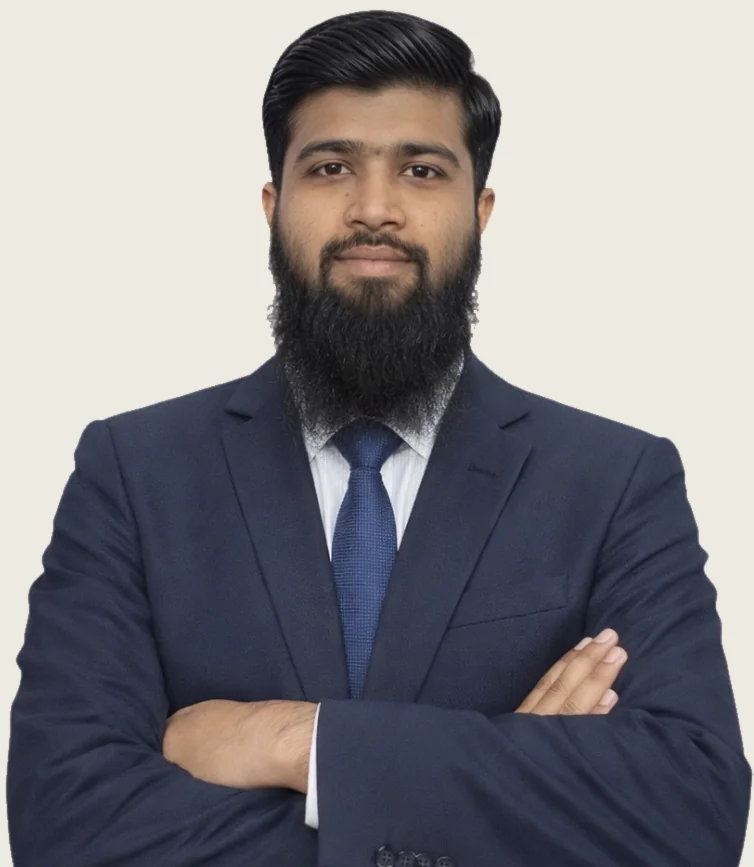
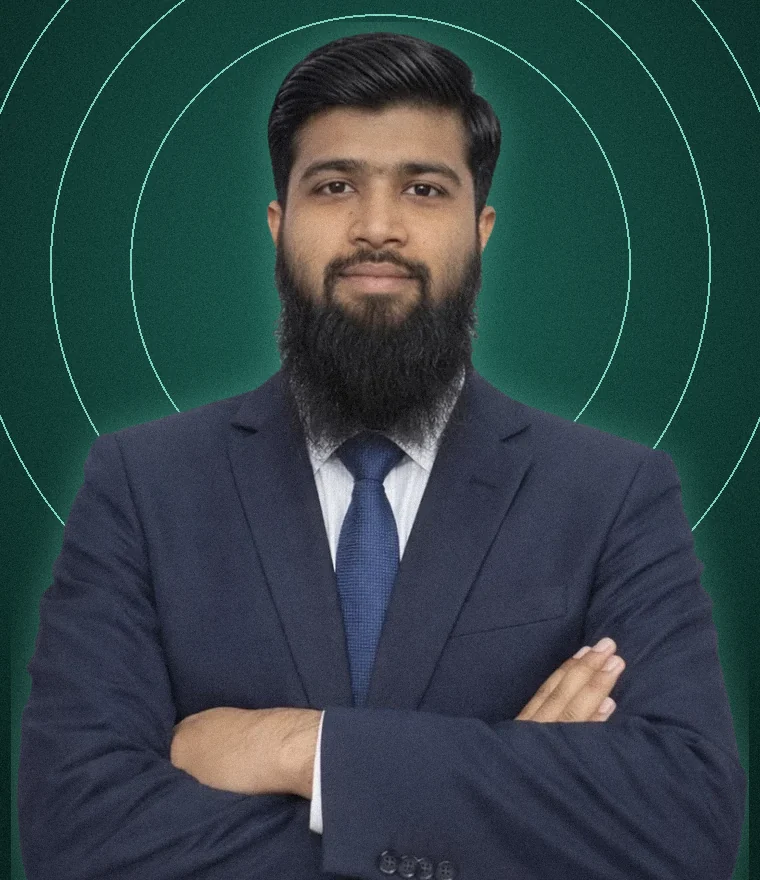
Tighter spacing, centered specialty, toolbox grid, new portrait, colored footer, no dash lines
Claude-Session: https://claude.ai/code/session_01HibqByGxeKNhrDeS48D84j

diff --git a/assets/css/style.css b/assets/css/style.css
@@ -27,16 +27,15 @@ button{font:inherit}
 /* type */
 h1,h2,h3{margin:0;font-weight:600;letter-spacing:-.025em;line-height:1.08}
 .serif{font-family:var(--serif);font-weight:400;font-style:italic;letter-spacing:-.01em}
-.eyebrow{display:inline-flex;align-items:center;gap:10px;font-size:13px;font-weight:600;letter-spacing:.08em;text-transform:uppercase;color:var(--accent)}
-.eyebrow::before{content:"";width:22px;height:1px;background:currentColor}
-.section{padding:120px 0}
+.eyebrow{display:inline-flex;align-items:center;gap:8px;font-size:13px;font-weight:600;letter-spacing:.04em;color:var(--accent);background:var(--accent-soft);padding:6px 14px;border-radius:999px}
+.dark .eyebrow,.contact .eyebrow{background:rgba(127,209,188,.12)}
+.section{padding:96px 0}
 .section.tight{padding-top:24px}
 .section.band{background:#fff;border-top:1px solid var(--line);border-bottom:1px solid var(--line)}
 .sec-head{max-width:760px;margin:0 auto 56px;text-align:center;display:flex;flex-direction:column;align-items:center}
 .sec-head h2{font-size:clamp(36px,5vw,58px);margin:16px 0 0;text-wrap:balance}
 .sec-head p{max-width:560px;color:var(--muted);margin:18px 0 0;font-size:18px}
 .dark .sec-head p{color:var(--dark-muted)}
-.sec-head .eyebrow::after{content:"";width:22px;height:1px;background:currentColor}
 .sec-head .filters{justify-content:center;margin-top:30px}
 .lead{font-size:clamp(18px,1.6vw,20px);color:var(--muted)}
 
@@ -109,7 +108,7 @@ h1,h2,h3{margin:0;font-weight:600;letter-spacing:-.025em;line-height:1.08}
 .marquee-inner{display:flex;gap:56px;padding:26px 0;width:max-content;animation:scroll 48s linear infinite}
 .marquee:hover .marquee-inner{animation-play-state:paused}
 .marquee span{font-size:22px;font-weight:600;letter-spacing:-.02em;color:#9AA0A6;white-space:nowrap;display:flex;align-items:center;gap:56px}
-.marquee span::after{content:"✦";font-size:12px;color:var(--line)}
+.marquee span::after{content:"";width:6px;height:6px;border-radius:50%;background:var(--line)}
 @keyframes scroll{to{transform:translateX(-50%)}}
 .marquee-label{text-align:center;font-size:13px;color:var(--muted);letter-spacing:.06em;text-transform:uppercase;padding-top:22px;background:#fff;margin:0}
 
@@ -424,3 +423,50 @@ ol.process{list-style:none;margin:0;padding:0}
 @media (max-width:960px){.arch{max-width:400px}.fc-1{left:0}.fc-2{right:0}.hero{padding-bottom:56px}}
 @media (max-width:640px){.videos{grid-template-columns:1fr 1fr;gap:12px}.video .cap{padding:40px 12px 12px}.video .cap b{font-size:14px}.video .cap span{font-size:12px}.video .play{width:54px;height:54px;margin:-27px 0 0 -27px}.rcard{width:290px}.video-quote{padding:30px 24px}.sec-head p{font-size:16px}}
 @media (prefers-reduced-motion:reduce){.split .w>span{transform:none}.rtrack{animation:none}.progress{display:none}}
+
+/* ===== v3: spacing, specialty, toolbox, footer ===== */
+#services{padding-bottom:88px}
+#process{background:#fff;border-top:1px solid var(--line);border-bottom:1px solid var(--line);padding:88px 0}
+#pricing{background:var(--paper);border:0}
+#reviews{background:var(--paper-2);border-top:1px solid var(--line);border-bottom:1px solid var(--line);padding-bottom:72px}
+#reviews .rating-bar,#reviews .rcard{background:#fff}
+#about{padding:88px 0 80px}
+#faq{padding-bottom:64px}
+#contact{padding:0 0 96px}
+.sec-head{margin-bottom:48px}
+/* specialty */
+.lp-grid{display:grid;grid-template-columns:1.05fr .95fr;gap:56px;align-items:center}
+.lp-list{list-style:none;padding:0;margin:0;display:grid;grid-template-columns:1fr 1fr;gap:16px;border:0}
+.lp-list li{display:flex;flex-direction:column;gap:6px;padding:22px;border:1px solid var(--dark-line);border-radius:16px;background:var(--dark-2);transition:border-color .25s,transform .25s}
+.lp-list li:hover{border-color:#3E4C46;transform:translateY(-3px)}
+.lp-list .n{font-family:var(--serif);font-style:italic;font-size:30px;color:#7FD1BC;line-height:1;margin-bottom:6px}
+.lp-list b{display:block;font-size:17px;color:#fff;line-height:1.3}
+.lp-list span:not(.n){color:var(--dark-muted);font-size:15px;line-height:1.5}
+.platforms{margin-top:22px}
+.stack-shots{aspect-ratio:1/.92}
+/* about photo, new style */
+.about-photo{background:#0E2C27;border:0}
+.about-photo figcaption{background:#0E2C27;color:#B9C9C3;border-top:1px solid rgba(255,255,255,.08)}
+.about-grid{align-items:center}
+.about-photo{position:relative;top:0}
+/* toolbox */
+.toolbox{margin-top:64px}
+.toolbox-title{font-size:15px;font-weight:600;color:var(--muted);text-align:center;margin:0 0 22px}
+.tool-grid{display:grid;grid-template-columns:repeat(5,1fr);gap:14px}
+.tool{background:#fff;border:1px solid var(--line);border-radius:16px;padding:20px 18px;transition:transform .25s,box-shadow .25s}
+.tool:hover{transform:translateY(-4px);box-shadow:var(--shadow)}
+.tool-head{display:flex;align-items:center;gap:10px;margin-bottom:14px}
+.tool-head .ico{width:34px;height:34px;border-radius:10px;background:var(--accent-soft);display:grid;place-items:center}
+.tool-head svg{width:18px;height:18px;stroke:var(--accent)}
+.tool-head b{font-size:15.5px}
+.tool .chips span{background:var(--paper);font-size:13px}
+/* footer */
+.footer{background:#0C2A25;color:#A9BDB6;padding:56px 0 36px}
+.footer .brand{color:#fff}
+.footer .brand small{color:#8FA79F}
+.footer .brand-mark{background:#7FD1BC;color:#0C2A25}
+.footer-top{border-bottom-color:rgba(255,255,255,.1)}
+.footer a:hover{color:#fff}
+@media (max-width:1080px){.tool-grid{grid-template-columns:repeat(3,1fr)}}
+@media (max-width:960px){.lp-grid{grid-template-columns:1fr}.stack-shots{max-width:560px;margin:10px auto 0;width:100%}.about-photo{max-width:420px;margin:0 auto}}
+@media (max-width:640px){.lp-list{grid-template-columns:1fr}.tool-grid{grid-template-columns:1fr 1fr}.section{padding:64px 0}#process,#about{padding:64px 0}#reviews{padding-bottom:56px}}
